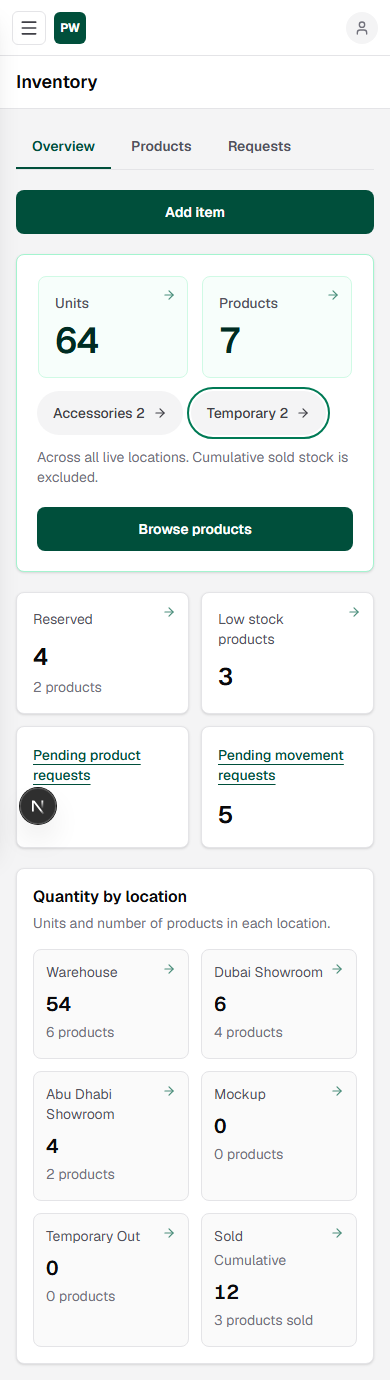
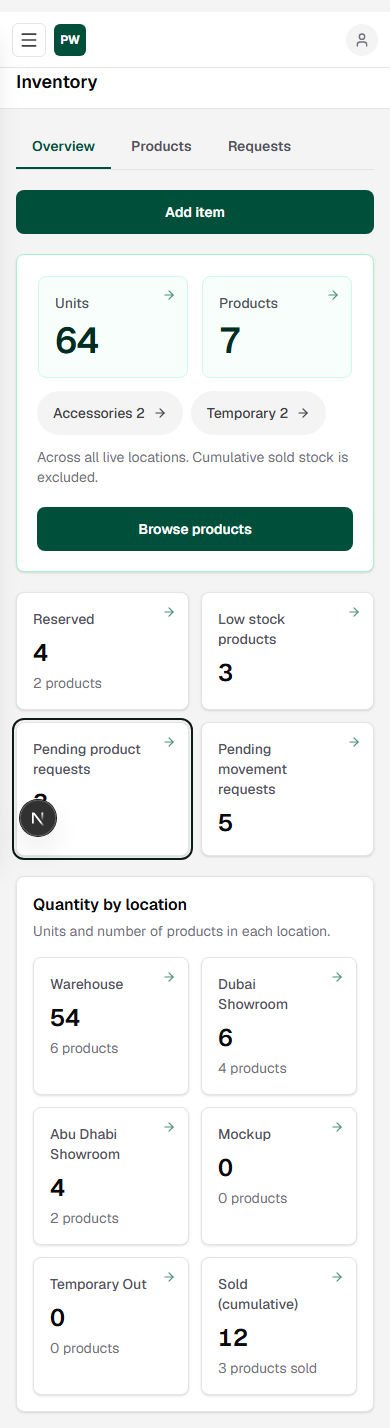
Use one shared card for every Overview card

diff --git a/components/inventory/overview-view.tsx b/components/inventory/overview-view.tsx
@@ -7,6 +7,21 @@ import { AddItemButton } from './add-item-button';
 const cardLink = "group relative block min-h-11 min-w-0 rounded-lg transition hover:border-emerald-400 hover:shadow-md focus-visible:outline-2 focus-visible:outline-offset-2 focus-visible:outline-emerald-700";
 const chipLink = "inline-flex min-h-11 items-center rounded-full bg-zinc-100 px-4 font-medium hover:bg-emerald-100 focus-visible:outline-2 focus-visible:outline-offset-2 focus-visible:outline-emerald-700";
 const viewHint = <span aria-hidden="true" className="absolute right-3 top-3 inline-flex items-center gap-1 text-xs font-medium text-emerald-800 opacity-70 group-hover:opacity-100"><span className="hidden sm:inline">View</span><ArrowRight size={14} /></span>;
+type CardProps = { href: string; label: string; value: number; note?: string; hint?: string; hero?: boolean };
+/** The one card used for every Overview figure, so cards cannot drift apart. */
+function OverviewCard({ href, label, value, note, hint, hero }: CardProps) {
+  return (
+    <Link href={href} data-overview-card className={`${cardLink} ${hero ? "border border-transparent" : "border border-zinc-200 bg-white shadow-sm"}`}>
+      <div className={hero ? "h-full rounded-lg border border-emerald-100 bg-emerald-50/40 p-4 pr-8" : "p-4 pr-8"}>
+        <dt className="break-words text-sm font-medium text-zinc-600">{label}</dt>
+        <dd className={`mt-2 break-words font-semibold tabular-nums ${hero ? "text-4xl tracking-tight text-emerald-950" : "text-2xl text-zinc-950"}`}>{formatInventoryNumber(value)}</dd>
+        {note ? <dd className="mt-1 text-sm text-zinc-500">{note}</dd> : null}
+        {hint ? <dd className="mt-1 text-sm text-zinc-500">{hint}</dd> : null}
+      </div>
+      {viewHint}
+    </Link>
+  );
+}
 const plural = (count: number) => `${formatInventoryNumber(count)} ${count === 1 ? "product" : "products"}`;
 
 export function InventoryOverviewView({ overview, productsHref = "/inventory/products", role }: { overview: InventoryOverview; productsHref?: string; role?: string | null }) {
@@ -19,7 +34,6 @@ export function InventoryOverviewView({ overview, productsHref = "/inventory/pro
     { label: "Pending product requests", value: overview.pending_product_requests, href: '/inventory/requests?tab=products&status=pending_review' },
     { label: "Pending movement requests", value: overview.pending_movement_requests, href: '/inventory/requests?tab=movements&status=pending_review' },
   ];
-  const bigCard = "h-full rounded-lg border border-emerald-100 bg-emerald-50/40 p-4 pr-8";
 
   return (
     <div className="min-w-0 space-y-5">
@@ -28,20 +42,8 @@ export function InventoryOverviewView({ overview, productsHref = "/inventory/pro
         <div className="flex min-w-0 flex-col gap-5 sm:flex-row sm:items-center sm:justify-between">
           <div className="min-w-0 flex-1">
             <div className="grid grid-cols-2 gap-3 sm:gap-4">
-              <Link href={href({ stock: "live" })} className={`${cardLink} border border-transparent`}>
-                <div className={bigCard}>
-                  <h2 className="text-sm font-medium text-zinc-600">Units</h2>
-                  <p className="mt-2 break-words text-4xl font-semibold tabular-nums tracking-tight text-emerald-950">{formatInventoryNumber(overview.total_live_quantity)}</p>
-                </div>
-                {viewHint}
-              </Link>
-              <Link href={href({ stock: "live" })} className={`${cardLink} border border-transparent`}>
-                <div className={bigCard}>
-                  <h2 className="text-sm font-medium text-zinc-600">Products</h2>
-                  <p className="mt-2 break-words text-4xl font-semibold tabular-nums tracking-tight text-emerald-950">{formatInventoryNumber(overview.product_count)}</p>
-                </div>
-                {viewHint}
-              </Link>
+              <OverviewCard hero href={href({ stock: "live" })} label="Units" value={overview.total_live_quantity} />
+              <OverviewCard hero href={href({ stock: "live" })} label="Products" value={overview.product_count} />
             </div>
             <div className="mt-3 flex flex-wrap gap-2 text-sm text-zinc-700">
               <Link href={href({ itemType: "accessory", stock: "live" })} className={chipLink}>Accessories {formatInventoryNumber(overview.item_type_counts.accessory)}<ArrowRight size={14} aria-hidden="true" className="ml-2" /></Link>
@@ -54,22 +56,7 @@ export function InventoryOverviewView({ overview, productsHref = "/inventory/pro
       </section>
 
       <dl className="grid min-w-0 grid-cols-2 gap-3 lg:grid-cols-4">
-        {stats.map(({ label, value, note, href: target }) => (
-          <Link key={label} href={target} className={`${cardLink} border border-zinc-200 bg-white shadow-sm`}>
-            <div className="p-4 pr-8">
-              <dt className="break-words text-sm text-zinc-600">{label}</dt>
-              <dd className="mt-3 break-words text-2xl font-semibold tabular-nums text-zinc-950">{formatInventoryNumber(value)}</dd>
-              {note ? <dd className="mt-1 text-sm text-zinc-500">{note}</dd> : null}
-            </div>
-            {viewHint}
-          </Link>
-        ))}
-        {requests.map(({ label, value, href: target }) => (
-          <div key={label} className="min-w-0 rounded-lg border border-zinc-200 bg-white p-4 shadow-sm">
-            <dt className="break-words text-sm text-zinc-600"><Link className="inline-flex min-h-11 items-center font-medium text-emerald-900 underline underline-offset-4" href={target}>{label}</Link></dt>
-            <dd className="mt-3 break-words text-2xl font-semibold tabular-nums text-zinc-950">{formatInventoryNumber(value)}</dd>
-          </div>
-        ))}
+        {[...stats, ...requests].map(card => <OverviewCard key={card.label} {...card} />)}
       </dl>
 
       <section className="min-w-0 rounded-lg border border-zinc-200 bg-white p-4 shadow-sm sm:p-5">
@@ -77,17 +64,7 @@ export function InventoryOverviewView({ overview, productsHref = "/inventory/pro
         <p className="mt-1 text-sm text-zinc-500">Units and number of products in each location.</p>
         <dl className="mt-4 grid min-w-0 grid-cols-2 gap-3 sm:grid-cols-3">
           {(Object.keys(LOCATION_LABELS) as InventoryLocation[]).map((location) => (
-            <Link key={location} href={href({ location })} className={`${cardLink} border border-zinc-200 bg-zinc-50`}>
-              <div className="p-3 pb-4">
-                <dt className="break-words pr-5 text-sm text-zinc-600">
-                  {LOCATION_LABELS[location]}
-                  {location === "sold" ? <span className="mt-1 block text-sm text-zinc-500">Cumulative</span> : null}
-                </dt>
-                <dd className="mt-2 break-words text-xl font-semibold tabular-nums text-zinc-950">{formatInventoryNumber(overview.location_quantities[location])}</dd>
-                <dd className="mt-1 text-sm text-zinc-500">{plural(overview.location_product_counts[location])}{location === "sold" ? " sold" : ""}</dd>
-              </div>
-              {viewHint}
-            </Link>
+            <OverviewCard key={location} href={href({ location })} label={location === "sold" ? `${LOCATION_LABELS[location]} (cumulative)` : LOCATION_LABELS[location]} value={overview.location_quantities[location]} note={`${plural(overview.location_product_counts[location])}${location === "sold" ? " sold" : ""}`} />
           ))}
         </dl>
       </section>
